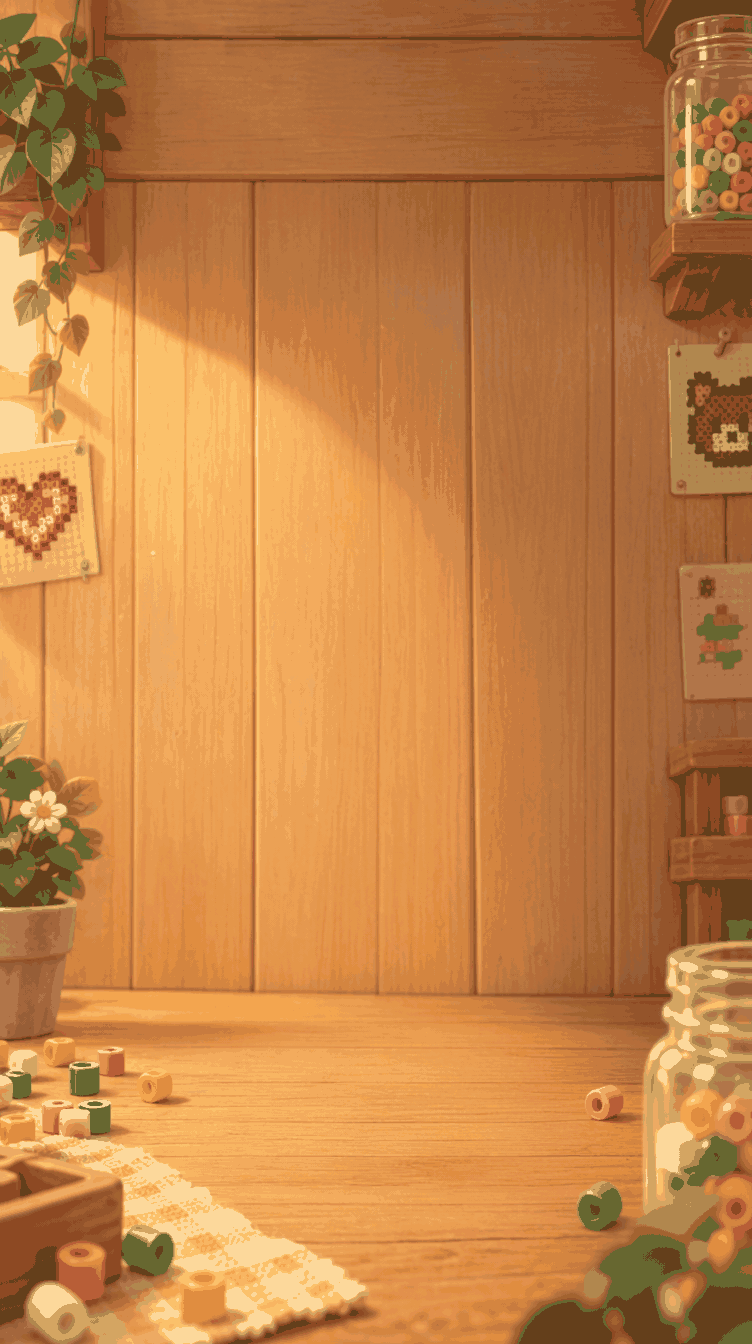
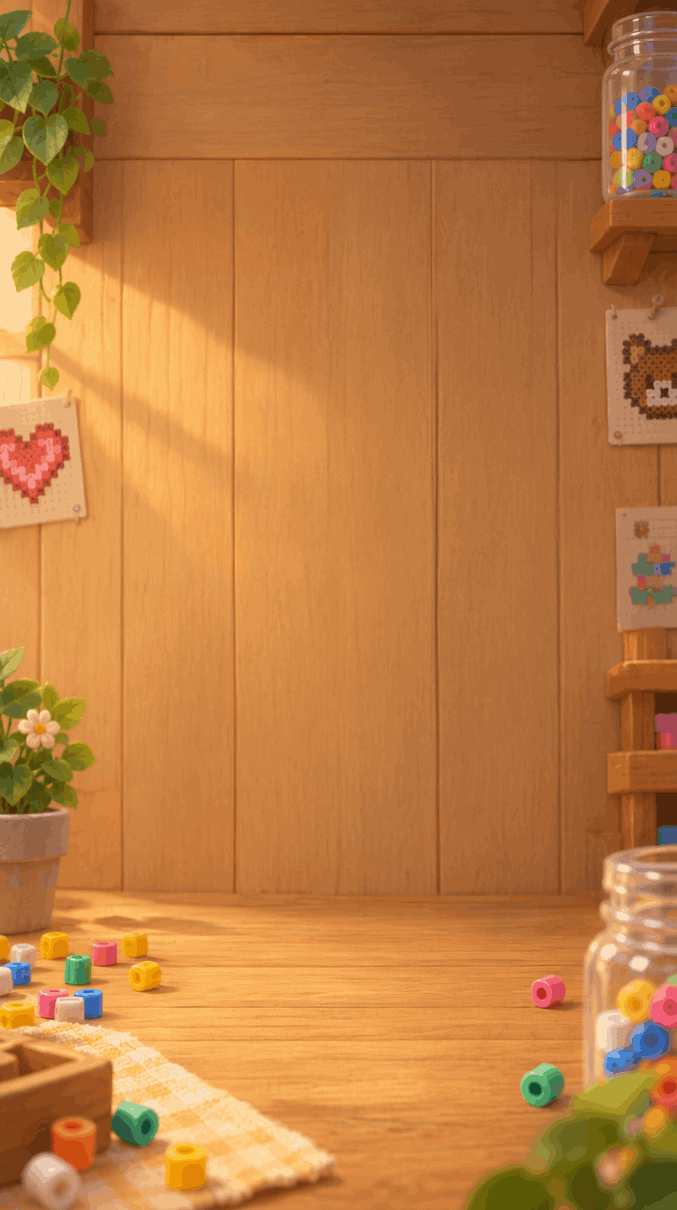
feat(beads): 背板换 qwen-3.0 + k-means 128 色（体积反降 9.3 KB）(WXG-T-521)
32 色细节区只有 22 dB（彩豆并色、墙斑驳）⇒ 换母版与调色板：
- 母版 qwen-image-3.0（996 KB，三个 RGB 里最干净也最小）
- 调色板 k-means 加权（替代中位切分「按像素面积分槽」）+ 0.9×
  ⇒ 677×1210 / 178.6 KB，比首轮 187.9 KB 还小
- 全图 PSNR 27.4→37.1、细节区 22.2→33.2；96 色与 128 色比过后按规则取 128
- release 1.0.17：主包 3977.6 KB（余 118.4 KB，较 1.0.16 反降 9.3 KB）
- .meta 由构建重导入更新为 677×1210（⛔ 未手改）

diff --git a/production/release/beads/release-checklist.md b/production/release/beads/release-checklist.md
@@ -29,7 +29,7 @@
 
 | ☐ | 检查项 | 判据 | 负责人 | 现状 / 证据 |
 |---|---|---|---|---|
-| ☐ | 🚦 版本号三处一致 | `games/beads/package.json`、游戏内 `version_label`、微信后台版本号按 `version-strategy.md` 对齐 | OPS | **机制已立（WXG-T-468，USER 2026-10-28 裁定：首发 = `1.0.x`、x = build 号、生成最终产物时递增）**：`build-cocos.mjs` 版本腿在 release 构建时递增 `package.json`（真源）并给产物 `version_label` 打实际 build 号（源码恒显基线 `v1.0.0`）；**现值 `1.0.16`（2026-10-31 09:36 release 构建，WXG-T-521）**。**「演示版」字样 = 分环境（USER 2026-10-28 裁 C，WXG-T-473 已落码）**：源码基线/harness/金样本恒显 `· 演示版`，**发布产物由版本腿连同后缀剥掉**（`tools/scripts/lib/version-label.mjs::stampReleaseLabel`，判别测试 `version-label.test.mjs` 进根 `test` 步）。✅ **2026-10-29 复证（T-506 + T-508 + T-510）**：新包 `cocos/build/wechatgame/assets/main/index.js` = **v1.0.15**、全文「演示版」**0 次**（产物 mtime 10-29 23:03）⇒ 剥后缀与打号腿成立。⚠ 仅剩：微信后台版本号 = 首次 `cli upload` 时填当次 build 号（下一次干净 release 构建会递增到 `1.0.16`，以那时产物为准） |
+| ☐ | 🚦 版本号三处一致 | `games/beads/package.json`、游戏内 `version_label`、微信后台版本号按 `version-strategy.md` 对齐 | OPS | **机制已立（WXG-T-468，USER 2026-10-28 裁定：首发 = `1.0.x`、x = build 号、生成最终产物时递增）**：`build-cocos.mjs` 版本腿在 release 构建时递增 `package.json`（真源）并给产物 `version_label` 打实际 build 号（源码恒显基线 `v1.0.0`）；**现值 `1.0.17`（2026-10-31 10:0x release 构建，WXG-T-521 二轮）**。**「演示版」字样 = 分环境（USER 2026-10-28 裁 C，WXG-T-473 已落码）**：源码基线/harness/金样本恒显 `· 演示版`，**发布产物由版本腿连同后缀剥掉**（`tools/scripts/lib/version-label.mjs::stampReleaseLabel`，判别测试 `version-label.test.mjs` 进根 `test` 步）。✅ **2026-10-29 复证（T-506 + T-508 + T-510）**：新包 `cocos/build/wechatgame/assets/main/index.js` = **v1.0.15**、全文「演示版」**0 次**（产物 mtime 10-29 23:03）⇒ 剥后缀与打号腿成立。⚠ 仅剩：微信后台版本号 = 首次 `cli upload` 时填当次 build 号（下一次干净 release 构建会递增到 `1.0.16`，以那时产物为准） |
 | ☐ | 发布范围冻结 | 关卡池、皮肤池、风格池以 `systems-index §3` 为准；未出池项（EP11 P-1…P-4）不混入 | DES + OPS | |
 | ☐ | 🚦 漂移登记已闭合或豁免 | `systems-index` 漂移登记 + 本节已知漂移逐条有结论 | ENG + DES | |
 | ☐ | 调试入口不进线上 | `studio=` 启动参数（beads-studio 导入，http 局域网）、`debugInfo` 覆层、`qa-probe` 不在提审包里可达 | ENG + QA | `BeadsBootstrap.ts` 只认 launch query `studio=` ⇒ 普通入口不可达；仍需在提审包上实测设置页无「导入」钮 |
@@ -219,3 +219,4 @@
 | **v1.12** | 2026-10-29 | **1.0.14 包产出（WXG-T-513）**：木纹柔和化 25%（小尺寸不抢字）；release 构建 14.9s → **1.0.14**；主包 **3524.2 KB / 123 文件**（余 **571.8 KB**）；`version_label` = v1.0.14；`check:cocos-mask` OK；`cli preview` TOTAL **3,566,897 B**，新码 `temp/wxg-t513-preview-qr.png` |
 | **v1.13** | 2026-10-29 | **1.0.15 包产出（WXG-T-514）**：外框木纹环 + 立体按钮 + 信息/星加强；release 构建 16.0s → **1.0.15**；主包 **3700.8 KB / 126 文件**（余 **395.2 KB**，外框环资产 +180 KB）；`check:cocos-mask` OK；`cli preview` TOTAL **3,747,754 B**，新码 `temp/wxg-t514-preview-qr.png` |
 | **v1.14** | 2026-10-31 | **1.0.16 包产出（WXG-T-521）**：主菜单整屏木屋背板入库；release 构建 49.7s → **1.0.16**；主包 **3986.9 KB / 150 文件**（较 1.0.15 涨 **286.1 KB** / +24 文件，其中背板自身 187.9 KB + 未提交的 T-515 五张 9s 图 ≈ 64 KB），距红线余量 **109.1 KB**（⚠ 已进入「下一张位图就可能撞墙」区）；`check:cocos-mask` OK（`ui_menu_backdrop` 字节相同）；本轮**未跑** `cli preview`（需开发者工具登录态） |
+| **v1.15** | 2026-10-31 | **1.0.17 包产出（WXG-T-521 二轮·色数复核）**：背板换 **qwen-image-3.0 母版 + k-means 128 色 @0.9×（677×1210 / 178.6 KB）**（原 local 32 色 / 187.9 KB）；release 构建 12.9s → **1.0.17**；主包 **3977.6 KB / 150 文件**（较 1.0.16 **反降 9.3 KB**），余量 **109.1 → 118.4 KB**；质量：全图 PSNR 27.4→**37.1** / 细节区 22.2→**33.2**；`check:cocos-mask` OK（纹理字节与产物等值）；`.meta` 由重导入改为 677×1210（未手改）；未跑 `cli preview` |

diff --git a/production/TASKS.md b/production/TASKS.md
@@ -8,7 +8,7 @@
 
 | Task ID | 名称 | 负责 | 状态 | 产出 |
 |---|---|---|---|---|
-| WXG-T-521 | beads·主菜单整屏木屋背板（位图腿 + 缺图回落） | 主理人(Qoder)·美术/工程轨 | ✅ **完成（2026-10-31）**（用户看三态对照后选「右图形态 = 照片背板 + 撤掉程序化光束/陶盆」并令保留提交。`MENU_TEXTURES.backdrop` + `drawMenuBackdrop` 位图腿：命中 ⇒ 暖带/分界线/四角暗角与 beam/pot **一起退场**（图里已烘，叠会双重压暗 + 双花盆）；缺图 ⇒ 原程序化 6 条逐字回落。harness 与 Cocos `BITMAP_ASSETS` 双注册；release **1.0.16** 主包 **3986.9 KB / 150 文件（余 109.1 KB）**；`check:cocos-mask` OK；beads 118 文件 / 1413 测试全绿） | 见详情 |
+| WXG-T-521 | beads·主菜单整屏木屋背板（位图腿 + 缺图回落） | 主理人(Qoder)·美术/工程轨 | ✅ **完成（2026-10-31）**（用户看三态对照后选「右图形态 = 照片背板 + 撤掉程序化光束/陶盆」并令保留提交。`MENU_TEXTURES.backdrop` + `drawMenuBackdrop` 位图腿：命中 ⇒ 暖带/分界线/四角暗角与 beam/pot **一起退场**（图里已烘，叠会双重压暗 + 双花盆）；缺图 ⇒ 原程序化 6 条逐字回落。harness 与 Cocos `BITMAP_ASSETS` 双注册；**二轮色数复核**（用户见 32 色降质）换 qwen-image-3.0 母版 + k-means 128 色调色板 @0.9×（677×1210）⇒ release **1.0.17** 主包 **3977.6 KB / 150 文件（余 118.4 KB，较 1.0.16 反降 9.3 KB）**；全图 PSNR 27.4→37.1 dB、细节区 22.2→33.2；`check:cocos-mask` OK；beads 118 文件 / 1413 测试全绿） | 见详情 |
 | WXG-T-179 | beads·照片转拼豆生成器 spike（调色板/限色/聚集 调优 + ADR-0016） | 主理人(CodeBuddy)·续作 Qoder | 🔄 待用户裁定 ADR-0016（**续作已交**：beads-studio 服务+CI+小游戏在线导入；**已部署到腾讯云 VPS 且 CI 发布链跑通**（PR #4 合并 → 自动 deploy ✓；安全组已放行 8787，**公网端到端通**）；修两处漂移 K-064） | 见详情 |
 | WXG-T-210 | beads·皮肤/风格系统（方案 A 全程序化）§12 决议与四域文档对齐 | 主理人(Qoder)｜林绘澄／文策渊／程基岩 分域交付 | 🚧 **文档对齐完成、落码未开工**（零代码、未 commit；**交付清单与三件开工前置阻塞见详情节**） | 见详情 |
 | WXG-T-211 | beads 风格池与豆径档落码（§12.9 步 1–4 已完） | 主理人(Qoder)｜程基岩／文策渊／林绘澄／严守真 | 🚧 **步 1（ADR-0024 值语义）+ 步 2（registry 骨架/双门禁/C11C12/凹槽 y 向）+ 步 3（四棱转正：渲染链消费 registry、十层封 `legacy-ten` 对照臂、§K.5 十二判据重立 + M01–M13 变异、§11.2 旧 1587 作废→新基线 1119 差分复算）落码；verify PASS 18/SKIP 1、beads 643；步 4（13/18 入池，C12 三套全过、885/1041 不升基线）落码，beads 651、verify PASS 18/SKIP 1；步 5 两钮+存档+遮罩未开工；步 1–4 已 commit** | 见详情 |

diff --git a/production/TASKS-DETAIL.md b/production/TASKS-DETAIL.md
@@ -4924,6 +4924,32 @@ git diff -w -- games/beads/src games/beads/cocos/assets/scripts/game
 2. 本次 1.0.16 产物 **同时包含工作树里未提交的 WXG-T-515 9-slice 改动**（5 张 9s 图 ≈ 64 KB）；版本号按构建递增，不按提交切分。
 3. 橱窗底座浅色托板未处理（用户裁定留到下一轮）。
 
+### 5. 二轮：色数/体积复核（2026-10-31，用户见 32 色降质）
+
+用户对比 6 张样图（3 母版 × 32 色/RGB）后问「32 色是否适合游戏、哪个 RGB 质量好又省体」。量测结论：
+
+| 母版 | RGB | 32 色（中位切分） | 32 色后全图/墙/细节 PSNR |
+|---|---|---|---|
+| 本地 Qwen-2.1（首轮入库） | 1086.8 KB | 187.9 KB | 27.4 / 37.8 / **22.2** |
+| qwen-image-3.0 | **996.3 KB** | **167.7 KB** | 27.5 / 38.4 / 22.4 |
+| wan2.7-image-pro | 1144.7 KB | 205.0 KB | 28.3 / 36.5 / 23.2 |
+
+两个发现：① 32 色不合格（细节区 22 dB = 彩豆并色、墙斑驳）；根因不只色数，还有 **PIL 中位切分按像素面积分配色槽**（木墙占屏 70% 挤掉彩豆配额）。② 三个 RGB 都上不了包（~1 MB vs 当时余量 109 KB），所以问题是「怎么压」不是「选哪个」。
+
+改用 **k-means 调色板（按饱和度 + 局部梯度加权）+ 0.9× 缩到 677×1210**：
+
+| 方案 | 体积 | 全图 | 墙 | 细节区 |
+|---|---|---|---|---|
+| 首轮 local 32 色 @1.0× | 188 KB | 27.4 | 37.8 | 22.2 |
+| 中位切分 96 色 @0.9× | 232 KB | 30.0 | 44.3 | 24.3 |
+| k-means 96 色 @0.9× | 157 KB | 36.1 | 42.2 | 32.2 |
+| **k-means 128 色 @0.9×（入库）** | **179 KB** | **37.1** | 43.3 | **33.2** |
+| k-means 128 色 @1.0× | 210 KB | 36.6 | 42.2 | 33.1 |
+
+96 vs 128 差异化（显式回答「差太大就用 128」）：木墙几乎无差（>8 阶像素 0.28%），差异集中在彩豆罐（19.2%）与刺绣（14.9%）；128 仅 22 KB 且**仍比首轮 188 KB 小** ⇒ 按用户规则取 128。
+
+落地：两处同名 PNG 换成 677×1210 / 128 色 / 178.6 KB（`color_type=3` 无 tRNS），`.meta` 由构建重导入自动改为 677×1210（⛔ 未手改）；`build:cocos` 12.9s → **v1.0.17**；`check:size` 主包 **3977.6 KB（余 118.4 KB，较 1.0.16 反降 9.3 KB）**；`check:cocos-mask` OK。
+
 ## WXG-T-520
 
 ### 1. 触发

diff --git a/ctx/hot-files.md b/ctx/hot-files.md
@@ -25,7 +25,7 @@
 
 §wechatgame 项目长期笔记=1+81 · §日志蒸馏规程（R2 · WXG-T-0…=7+6 · §项目约定=13+22 · §常用脚本=35+11 · §SubAgent=46+4 · §Rules=50+3 · §Hooks=53+7 · §Headless / CI=60+8 · §已知限制=68+14
 
-## `production/TASKS.md` — 128 行 / 25713 tok / 实测读 4 次
+## `production/TASKS.md` — 128 行 / 25773 tok / 实测读 4 次
 
 §WXG 任务台账（SSOT）=1+129 · §待排（backlog，无号，立项时领取…=101+29
 
@@ -103,10 +103,10 @@
 §knowledge/ — 工作室知识库…=1+313 · §1 读取协议（开发前期）=7+10 · §2 写入协议（任务收尾）=17+28 · §3 文件分工=45+10 · §4 维护=55+12 · §5 生命周期（访问记账 → 归档 → …=67+41 · §6 活跃条目（自动生成）=108+206
 > 本表只列 7 / 11 节：其余 4 节 → ctx/index.json（按 path 取 `sections[].anchor` / `startLine`，勿整读）。
 
-## `production/TASKS-DETAIL.md` — 5211 行 / 155577 tok
+## `production/TASKS-DETAIL.md` — 5237 行 / 156131 tok
 
-§WXG 任务台账 · 详情（标题制正文…=1+5212 · §WXG-T-509=4786+43 · §WXG-T-510=4829+32 · §WXG-T-518=4861+33 · §WXG-T-521=4894+33 · §WXG-T-520=4927+55 · §WXG-T-519=4982+64 · §WXG-T-517=5046+35 · §WXG-T-516=5081+30 · §WXG-T-514=5111+27 · §WXG-T-513=5138+20 · §WXG-T-512=5158+27 · §WXG-T-511=5185+28
-> 本表只列 13 / 479 节：其余 466 节 → ctx/index.json（按 path 取 `sections[].anchor` / `startLine`，勿整读）。
+§WXG 任务台账 · 详情（标题制正文…=1+5238 · §WXG-T-509=4786+43 · §WXG-T-510=4829+32 · §WXG-T-518=4861+33 · §WXG-T-521=4894+59 · §WXG-T-520=4953+55 · §WXG-T-519=5008+64 · §WXG-T-517=5072+35 · §WXG-T-516=5107+30 · §WXG-T-514=5137+27 · §WXG-T-513=5164+20 · §WXG-T-512=5184+27 · §WXG-T-511=5211+28
+> 本表只列 13 / 480 节：其余 467 节 → ctx/index.json（按 path 取 `sections[].anchor` / `startLine`，勿整读）。
 
 ## `games/breakout/design/concept.md` — 143 行 / 3113 tok / 实测读 217 次
 

diff --git a/ctx/BUDGET.md b/ctx/BUDGET.md
@@ -22,7 +22,7 @@
 
 | # | 文件 | tokens | 行数 | tier |
 |---:|---|---:|---:|:--:|
-| 1 | `production/TASKS-DETAIL.md` | 155577 | 5211 | normal |
+| 1 | `production/TASKS-DETAIL.md` | 156131 | 5237 | normal |
 | 2 | `games/beads/design/gdd/powerups-v2.md` | 144877 | 2328 | normal |
 | 3 | `games/beads/design/art/specs/assets-spec.md` | 121738 | 2109 | normal |
 | 4 | `production/qa/beads/g4-regression-report.md` | 86807 | 2201 | normal |
@@ -38,7 +38,7 @@
 | 14 | `games/beads/design/art/specs/accessibility.md` | 37140 | 201 | normal |
 | 15 | `memory/2026-10-04.md` | 28255 | 930 | normal |
 | 16 | `games/beads/design/gdd/save-progress.md` | 26135 | 305 | normal |
-| 17 | `production/TASKS.md` | 25713 | 128 | hot |
+| 17 | `production/TASKS.md` | 25773 | 128 | hot |
 | 18 | `games/beads/design/proposals/star-economy-and-retention.md` | 22195 | 763 | normal |
 | 19 | `docs/architecture/ui-architecture-beads.md` | 20393 | 253 | normal |
 | 20 | `games/beads/design/gdd/input-control.md` | 19665 | 206 | normal |
